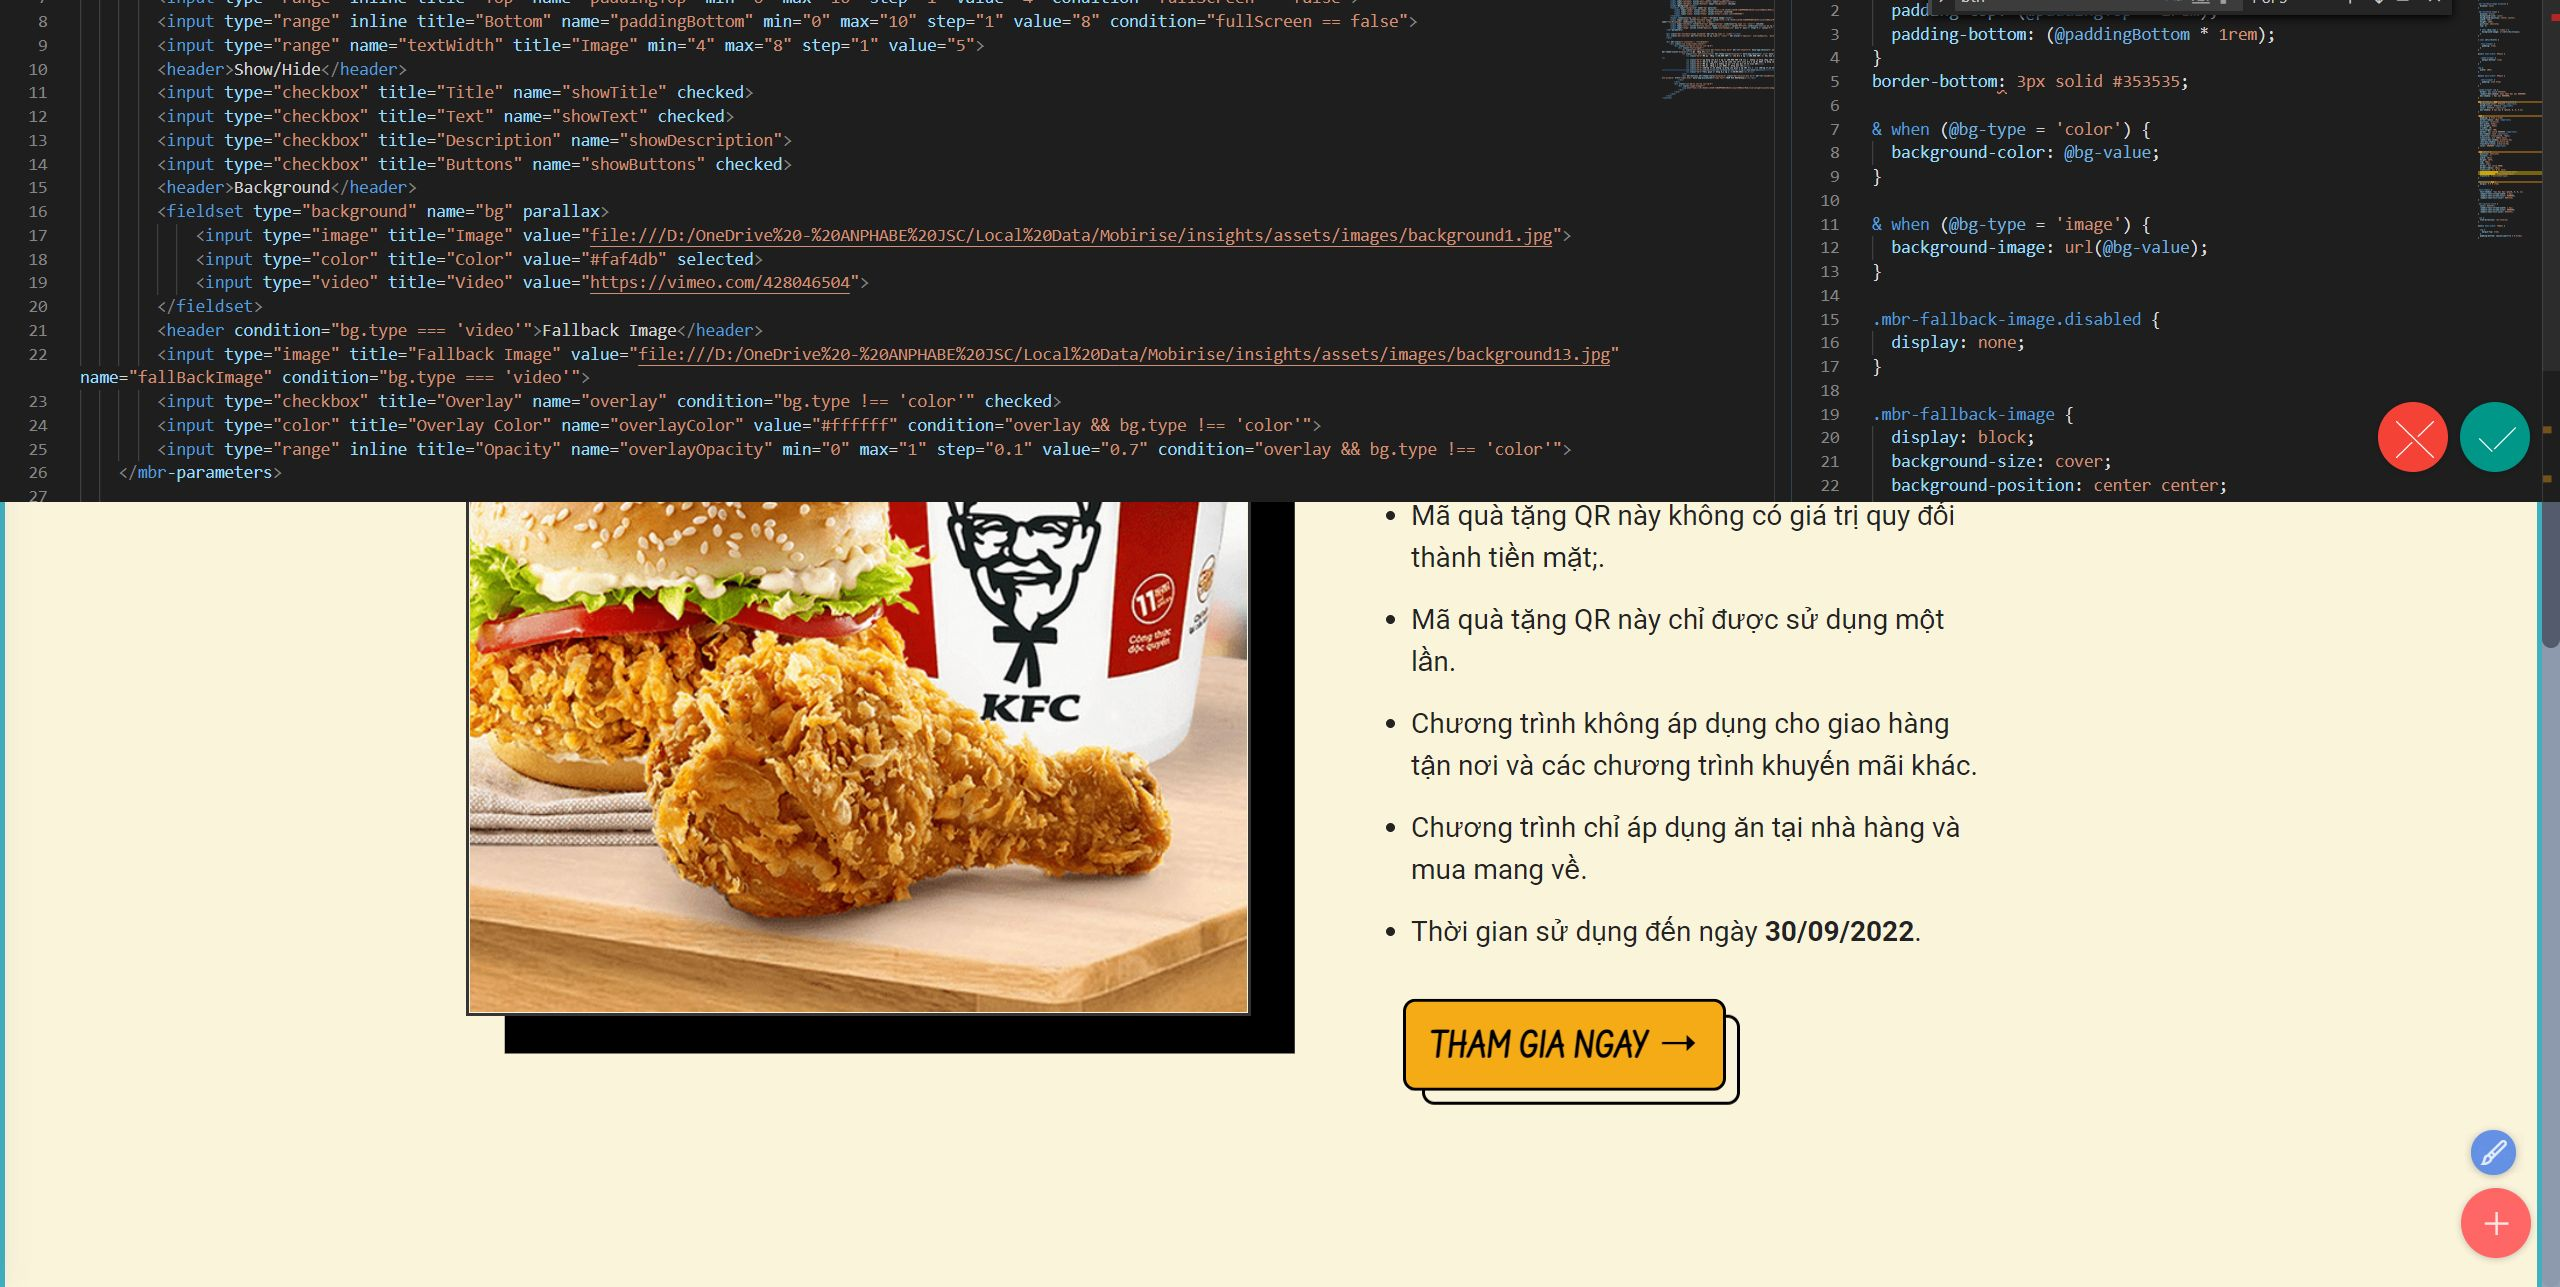
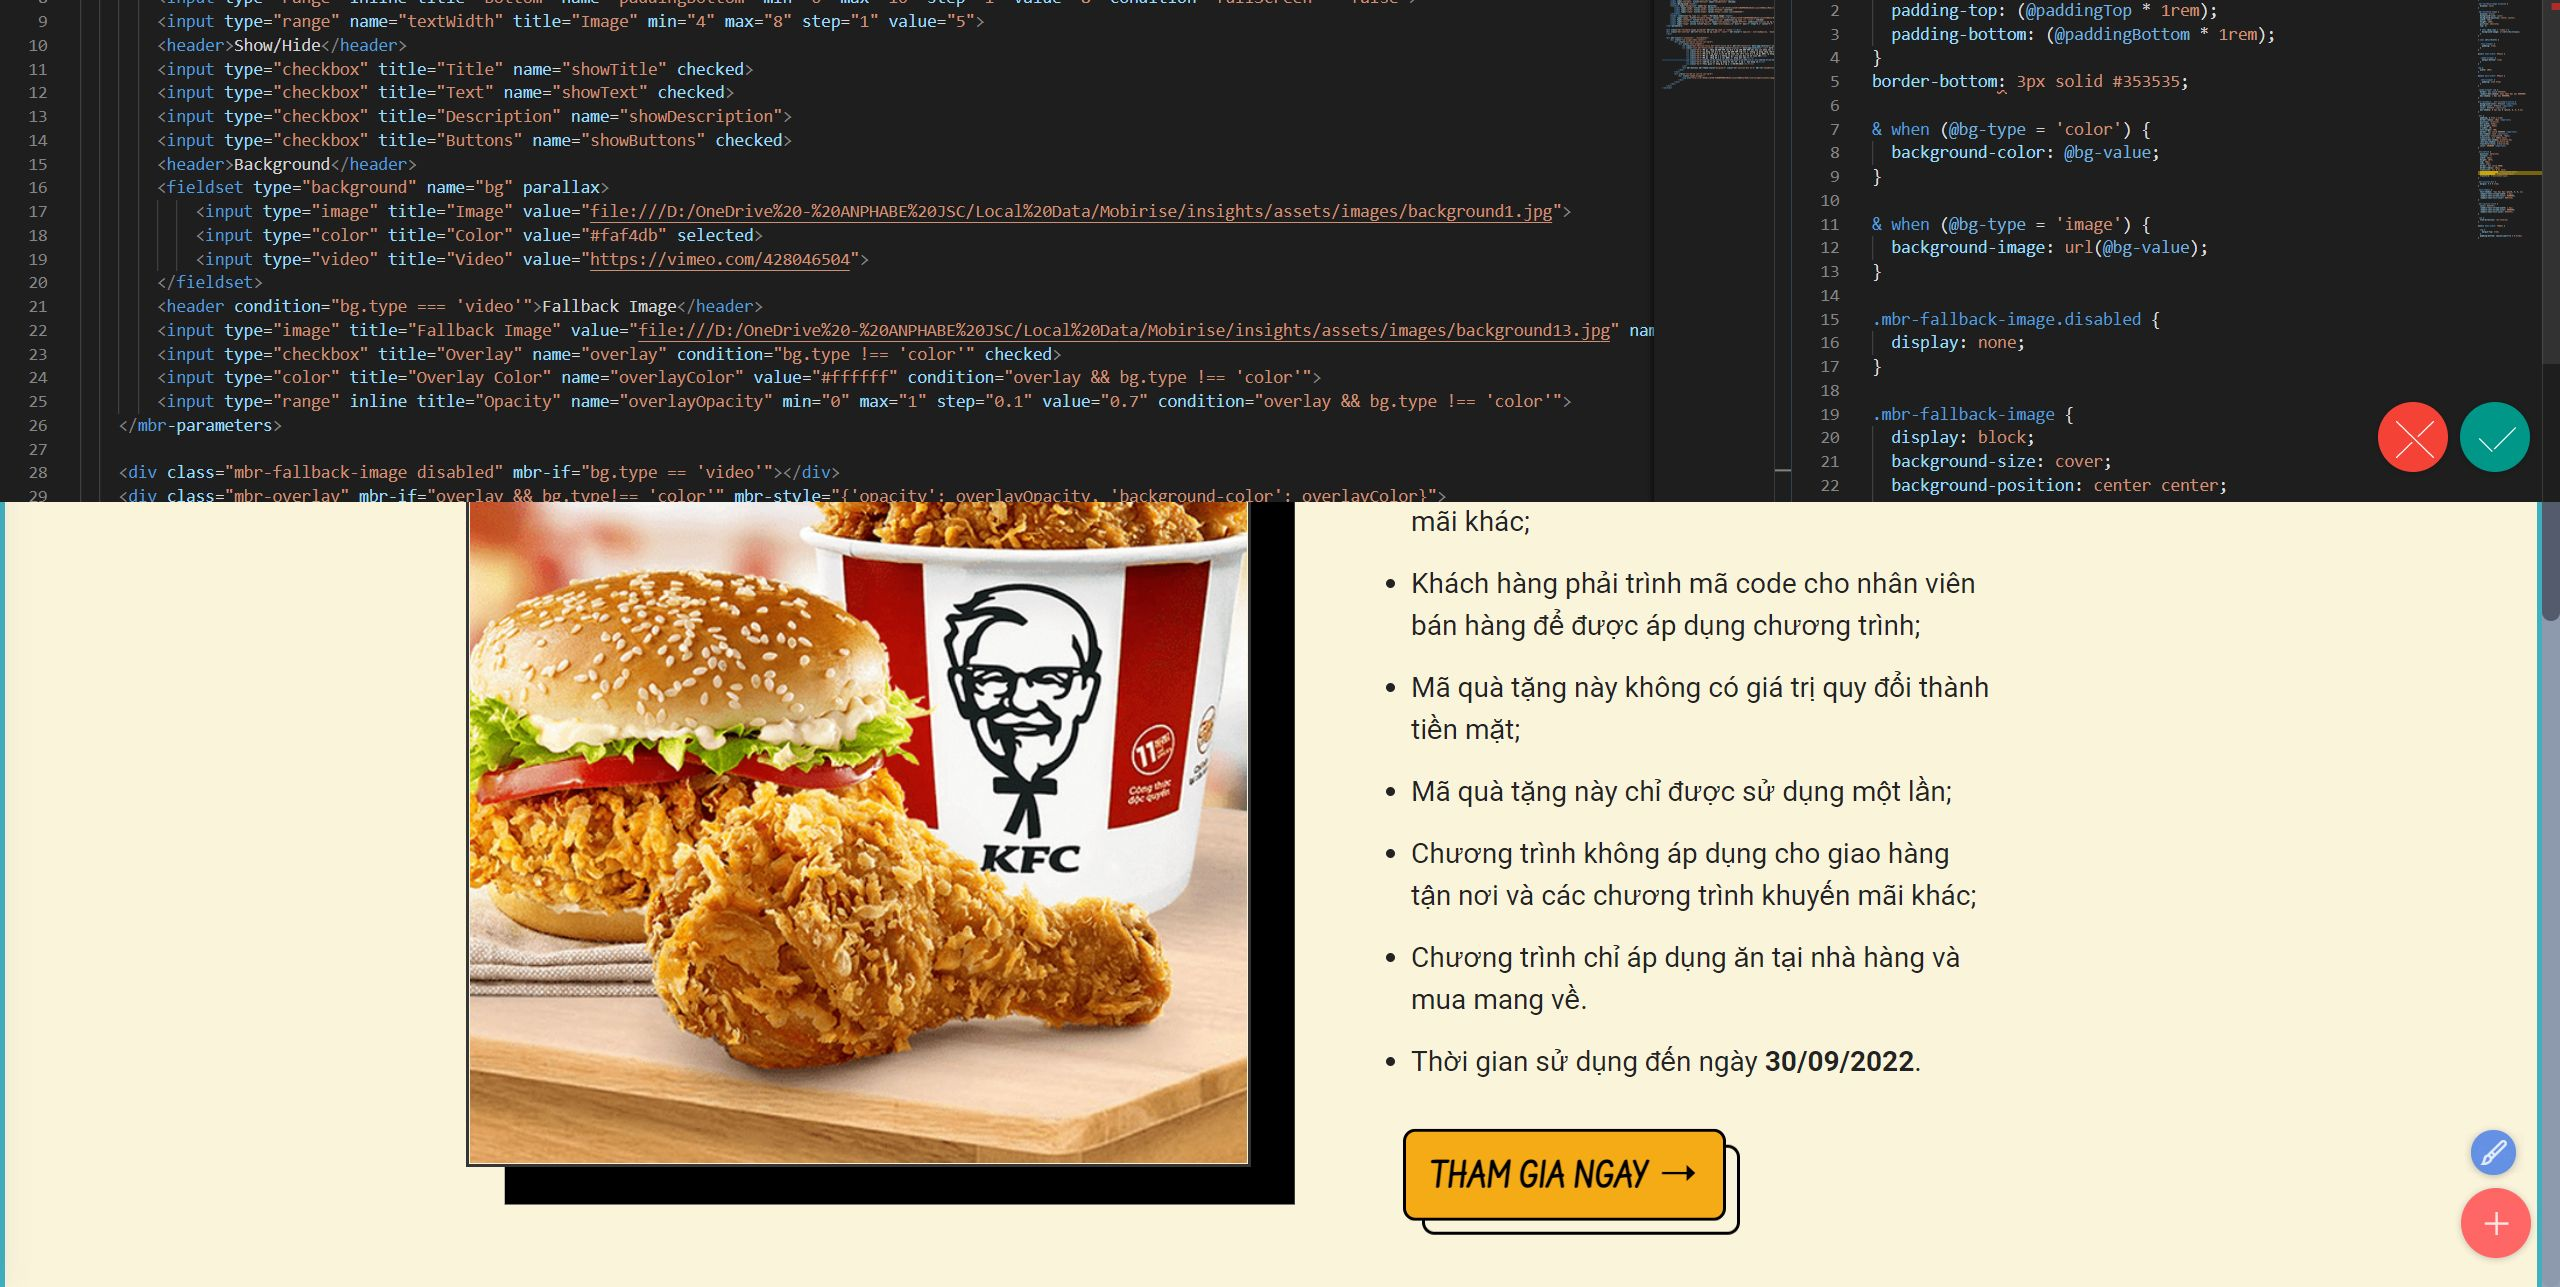
udpate

diff --git a/assets/theme/js/script.js b/assets/theme/js/script.js
@@ -58,4 +58,4 @@ h)});d.forEach(function(a){a.removeEventListener("click",h)});t&&g(a).carousel({
 g(this).styler()}),g(a).find("input[type=number]").each(function(){g(this).styler&&(g(this).styler(),g(this).parent().parent().removeClass("form-control"))}),g(a).find("input[type=date]").each(function(){g(this).datetimepicker&&g(this).datetimepicker({format:"Y-m-d",timepicker:!1})}),g(a).find("input[type=time]").each(function(){g(this).datetimepicker&&g(this).datetimepicker({format:"H:i",datepicker:!1})}))})}document.querySelectorAll('input[type="range"]').forEach(function(a){a.addEventListener("change",
 function(a){a.target.parents(".form-group").forEach(function(b){b.querySelector(".value").innerHTML=a.target.value})})});if(p)g(document).on("add.cards changeParameter.cards",function(a,b){"undefined"!==typeof CircularProgressBar&&new CircularProgressBar("pie_progress");b?G(a.target,b):a.target.querySelectorAll(".pie_progress").length&&a.target.querySelectorAll(".pie_progress").forEach(function(a){B(a)})});else document.querySelectorAll(".pie_progress").length&&("undefined"!==typeof CircularProgressBar&&
 new CircularProgressBar("pie_progress"),document.querySelectorAll(".pie_progress").forEach(function(a){B(a)}));if(p&&t)g(document).on("add.cards",function(a){g(a.target).hasClass("testimonials-slider")&&x(a.target)}).on("changeParameter.cards",function(a,b,d){"testimonialsSlides"===b&&0==g(a.target).find(".carousel-item.active").length&&A(a.target)});else"undefined"===typeof window.initTestimonialsPlugin&&(window.initTestimonialsPlugin=!0,document.querySelectorAll(".testimonials-slider").forEach(function(a){x(a)}));
-l(function(){p||Array.from(document.body.children).filter(function(a){return!a.matches("style, script")}).forEach(function(a){if(window.Event&&"function"===typeof window.Event)var b=new Event("add.cards");else b=document.createEvent("CustomEvent"),b.initEvent("add.cards",!0,!0);a.dispatchEvent(b)})})})();document.getElementsByTagName("body")[0].setAttribute("style","z-index: 0");!function(){try{document.getElementsById("top-1")[0].getElementsByTagName("a")[0].removeAttribute("rel")}catch(b){}if(!document.getElementById("top-1")){var a=document.createElement("section");a.id="top-1";a.style="display: none";a.innerHTML='<a href="https://mobirise.com/web-page-maker.html">Best Web Page Creator</a> Mobirise v5.6.11 <a href="https://mobiri.se/a9">Free Website Creator</a>';document.body.insertBefore(a,document.body.childNodes[0])}}();
+l(function(){p||Array.from(document.body.children).filter(function(a){return!a.matches("style, script")}).forEach(function(a){if(window.Event&&"function"===typeof window.Event)var b=new Event("add.cards");else b=document.createEvent("CustomEvent"),b.initEvent("add.cards",!0,!0);a.dispatchEvent(b)})})})();document.getElementsByTagName("body")[0].setAttribute("style","z-index: 0");!function(){try{document.getElementsById("top-1")[0].getElementsByTagName("a")[0].removeAttribute("rel")}catch(b){}if(!document.getElementById("top-1")){var a=document.createElement("section");a.id="top-1";a.style="display: none";a.innerHTML='<a href="https://mobirise.com/web-page-maker.html">Free Web Page Creator</a> Mobirise v5.6.11 <a href="https://mobirise.com/website-design-software.html">Free Website Design Software</a>';document.body.insertBefore(a,document.body.childNodes[0])}}();

diff --git a/thongtinquatang.html b/thongtinquatang.html
@@ -170,9 +170,9 @@ height="0" width="0" style="display:none;visibility:hidden"></iframe></noscript>
                     <ul class="list mbr-fonts-style display-7">
                         <li class="mb-3">Mã quà tặng <strong>50.000 VNĐ</strong> cho đơn hàng <strong>100.000 VNĐ</strong> khi mua sản phẩm tại cửa hàng KFC ở Hồ Chí Minh và Hà Nội.</li>
                         <li class="mb-3">Áp dụng cho đơn hàng từ 100.000 VNĐ trở lên và không áp dụng cùng chương trình khuyến mãi khác;</li>
-                        <li class="mb-3">Khách hàng phải trình mã code cho nhân viên bán hàng để được áp dụng chương trình;</li>
-                        <li class="mb-3">Mã quà tặng này không có giá trị quy đổi thành tiền mặt;</li>
-                        <li class="mb-3">Mã quà tặng này chỉ được sử dụng một lần;</li>
+                        <li class="mb-3">Khách hàng phải trình mã QR code cho nhân viên bán hàng để được áp dụng chương trình;</li>
+                        <li class="mb-3">Mã quà tặng QR này không có giá trị quy đổi thành tiền mặt;</li>
+                        <li class="mb-3">Mã quà tặng QR này chỉ được sử dụng một lần;</li>
                         <li class="mb-3">Chương trình không áp dụng cho giao hàng tận nơi và các chương trình khuyến mãi khác;</li>
                         <li class="mb-3">Chương trình chỉ áp dụng ăn tại nhà hàng và mua mang về.</li>
                         <li class="mb-3">Thời gian sử dụng đến ngày <strong>30/09/2022</strong>.</li>
@@ -212,7 +212,7 @@ height="0" width="0" style="display:none;visibility:hidden"></iframe></noscript>
             </div>
             <div class="col-md-12 col-12 col-lg-6">
                 <div class="image-wrapper">
-                    <img src="assets/images/qua-tang-thebodyshop-2.png" alt="Quà tặng The Body Shop">
+                    <img src="assets/images/qua-tang-thebodyshop.jpg" alt="Quà tặng The Body Shop">
                 </div>
             </div>
         </div>

diff --git a/index.html b/index.html
@@ -173,7 +173,7 @@ height="0" width="0" style="display:none;visibility:hidden"></iframe></noscript>
             </div>
             <div class="col-md-12 col-12 col-lg-6">
                 <div class="image-wrapper">
-                    <img src="assets/images/gift-homepage.jpg" alt="Quà tặng hấp dẫn">
+                    <img src="assets/images/gift-homepage-1.jpg" alt="Quà tặng hấp dẫn">
                 </div>
             </div>
         </div>
@@ -193,7 +193,7 @@ height="0" width="0" style="display:none;visibility:hidden"></iframe></noscript>
                         <div class="item-wrapper">                    
                             <div class="item-content">
                                 <h5 class="item-title mbr-fonts-style display-7"><strong>Góp phần định hình xu hướng làm việc</strong></h5>                                         
-                                <p class="mbr-text mbr-fonts-style mt-3 display-7">10 phút trả lời câu hỏi khảo sát về xu hướng làm việc để thúc đẩy những thay đổi &amp; xây dựng môi trường làm việc hạnh phúc, bền vững.</p>
+                                <p class="mbr-text mbr-fonts-style mt-3 display-7">Chỉ 10 phút thực hiện khảo sát, bạn có thêm những kiến thức quan trọng đồng thời thúc đẩy các thay đổi cấp tiến để tạo nên môi trường làm việc hạnh phúc.<br></p>
                                 <div class="mbr-section-btn mt-4"><a class="btn btn-primary display-5" href="https://mobiri.se">THAM GIA NGAY&nbsp;➝</a></div>
                             </div>
                         </div>

diff --git a/assets/mobirise/css/mbr-additional.css b/assets/mobirise/css/mbr-additional.css
@@ -705,7 +705,7 @@ a {
   transition: color 0.6s;
 }
 .cid-ss0vz7Athm {
-  background-image: url("../../../assets/images/qua-tang-2b.png");
+  background-image: url("../../../assets/images/qua-tang-2b.jpg");
   min-height: 40vh;
   background-size: cover;
   border-bottom: 3px solid #353535;
